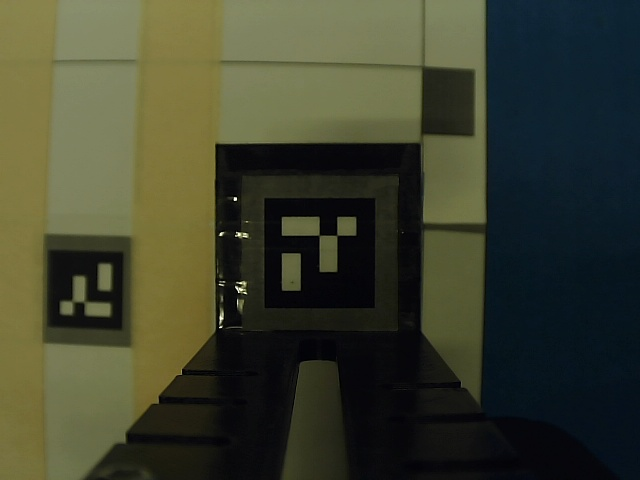
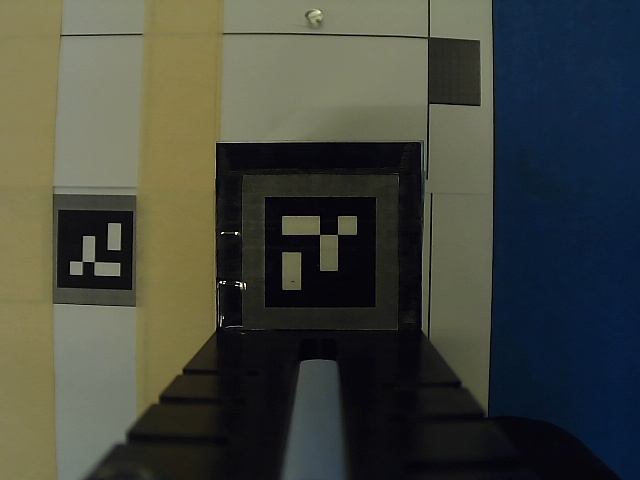
y alignment

diff --git a/utils.py b/utils.py
@@ -458,15 +458,15 @@ if __name__ == "__main__":
     base_pose = [200, 0, 0, 0, 90, 0]
     woody.write_cartesian_position(base_pose)
 
-    # for x in range(1):
-    #     safety_check()
-    #     calibration_distance = [200,200]   # movement distances in mm
-    #     base_pose = [200, 0, 0, 0, 90, 0]
-    #     woody.write_cartesian_position(base_pose)
-    #     offset = calibrate(
-    #         calibration_distance,
-    #         base_pose,
-    #         move_axis='y',
-    #         camera_index=0,
-    #         save_dir="samples"
-    #     )
+    for x in range(1):
+        safety_check()
+        calibration_distance = [200,200]   # movement distances in mm
+        base_pose = [200, 0, 0, 0, 90, 0]
+        woody.write_cartesian_position(base_pose)
+        offset = calibrate(
+            calibration_distance,
+            base_pose,
+            move_axis='y',
+            camera_index=0,
+            save_dir="samples"
+        )
